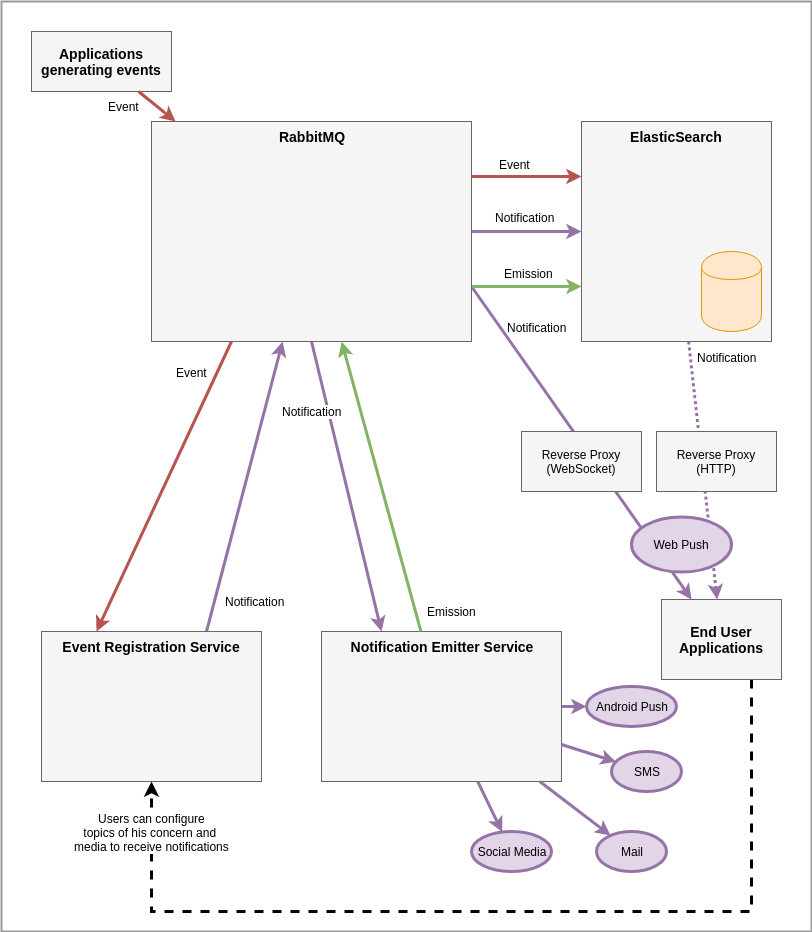
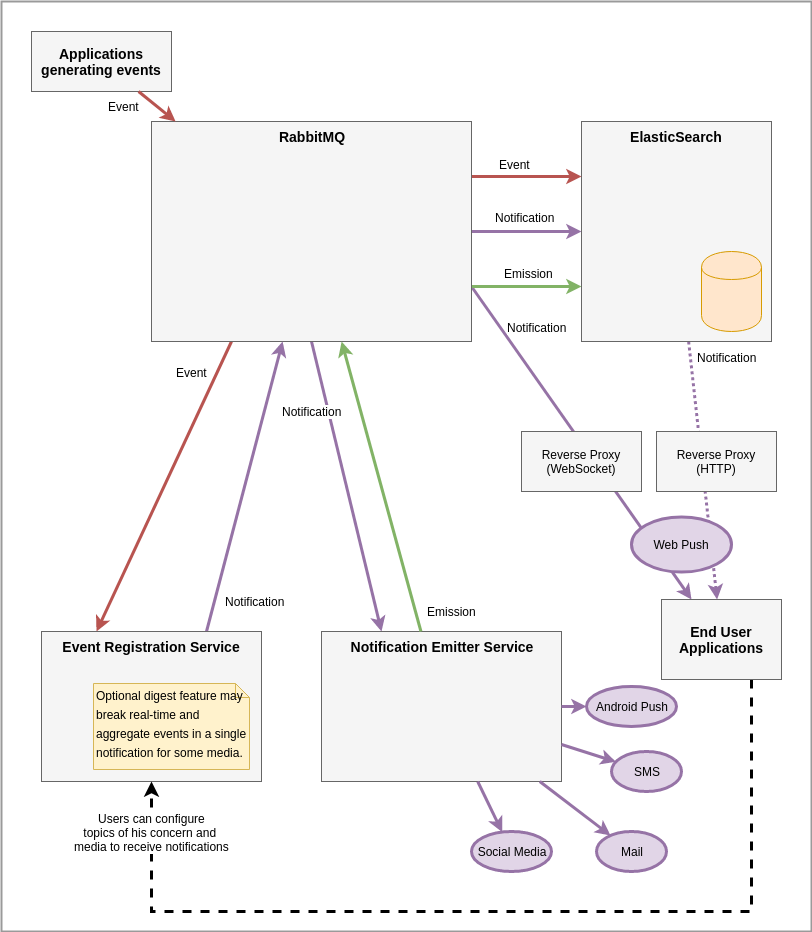
Add Data Structure definitions and media digest feature

Changed region(s): [[0.0924, 0.7157, 0.3079, 0.8401]]

diff --git a/docs/README.md b/docs/README.md
@@ -16,8 +16,70 @@ Architecture
 ![Sequence_Diagram.png](./Sequence_Diagram.png)
 
 
-Software components
--------------------
+### Data Structure Definitions
+
+#### Event
+
+An **Event** is the raw source of data that is emitted from any application, at any time.
+
+It's NOT related to which user will receive a notification nor which media will be used.
+
+| Property  | Type | Description |
+| ------------- | ------------- | --- |
+| priority | Enum\<EventPriority\> | Priority of this event |
+| type | Enum\<EventType\> | Type of this event |
+| title | String | Title of the event |
+| message | String | Message content of the event |
+| date | Date | Date of the event |
+| scheduleDate | Date | Date when notifications should occur |
+| expiryDate | Date | Date after when notifications should not occur |
+| properties | Map\<String, String\> | Other custom properties
+
+#### UserEvent
+
+A **UserEvent** is an **Event** that has been dispatched to a specific user.
+
+It's related to a single user, but NOT related to which media will be used.
+
+There are commonly many **UserEvent** instances generated for each **Event** instance.
+
+
+| Property  | Type | Description |
+| ------------- | ------------- | ------------- |
+| event  | Event | Source event
+| userUid  | String | User unique identifier
+
+#### Notification
+
+A **Notification** is one or many **UserEvent** instances that should be sent through a specific media type 
+(Mail, SMS, Web Portal) to notify the user.
+
+Notification instance may be build and sent in real-time when **UserEvent** are processed (High priority alerts, One 
+Notification per UserEvent), but may also be delayed to digest many **UserEvent** instances into a single **Notification** 
+(Daily or Weekly mail).
+
+There are commonly one or more **Notification** instance generated for each **UserEvent** instance.
+
+| Property  | Type | Description |
+| ------------- | ------------- | ------------- |
+| userEvent  | UserEvents | Source user event to notify (Not a digest)
+| digestUserEvents  | List\<UserEvents\>  | Digest of user events to notify (Is a digest) |
+| mediaType  | String | Which type of media will the notification be emitted with |
+
+#### Emission
+
+An **Emission** is an attempt to send one Notification over it's specified media.
+
+There is commonly one **Emission** instance per Notification instance, but there may be more in case of errors (one instance
+per retry attempt)
+
+| Property  | Type |
+| ------------- | ------------- |
+| notification  | Notification  |
+| error  | boolean |
+| errorMessage | String |
+
+### Software components
 
 * **RabbitMQ**
 
@@ -47,10 +109,17 @@ generated notifications.
 **Type**: Web application  
 **Role**: Display generated random events (Step 1) and real world events (Step 3). Emit real world events (Step 3).
 
-- **Notification Service**
+- **Event Registration Service**
 
 **Tech**: Java/Spring Boot  
 **RabbitMQ Protocol**: AMQP + STOMP over WebSocket  
 **Type**: Service  
-**Role**: Register users to various events type and media, and dispatch incoming events to notifications based
+**Role**: Register users to various events type, priority and media, and dispatch incoming events to notifications based
 on registrations.
+
+- **Notification Emitter Service**
+
+**Tech**: Java/Spring Boot  
+**RabbitMQ Protocol**: AMQP + STOMP over WebSocket  
+**Type**: Service  
+**Role**: Effectively sends notifications to various media.

diff --git a/docs/ROADMAP.md b/docs/ROADMAP.md
@@ -32,7 +32,6 @@ Step 3
 **Emit real world events**
 
 - Create real world classes to emit events from (Alert, Document, News, ...).
-- Consume those events in **CLI Application**. 
 - Consume those events in **Web Application**.
 - Produce those events in **Web Application** (on user input).
 - Configure ElasticSearch to support those events.
@@ -42,10 +41,24 @@ Step 4
 
 **Dispatch real world events to user notifications**
 
-- Write a **User Event Registration Service** to register user to various event properties (type, level, ...) and 
-media.
-- Dispatch incoming events to media based on user registrations in **Notification Service**.
+- Write a minimalist **Event Registration Service** that simply dispatch events to notifications.
 - Persist produced notifications in **ElasticSearch**
-- Update **Web Application** to support login and events that match registration only.
-- Display persisted notifications in **CLI Application**.
 - Display persisted notifications in **Web Application**.
+- Display real time notifications in **Web Application**.
+
+Step 5
+------
+
+**Add digest capabilities for notifications**
+
+- Enhance **Event Emitter Service** to allow aggregation of UserEvent into a single Notification.
+
+Step 6
+------
+
+**Make notifications configurable by the user**
+
+- Enhance **Event Registration Service** to register user to various event properties (type, level, ...) and 
+media.
+- Use user configuration to dispatch events to notifications on registered users and media only.
+- Update **Web Application** to support login and events that match user only.
